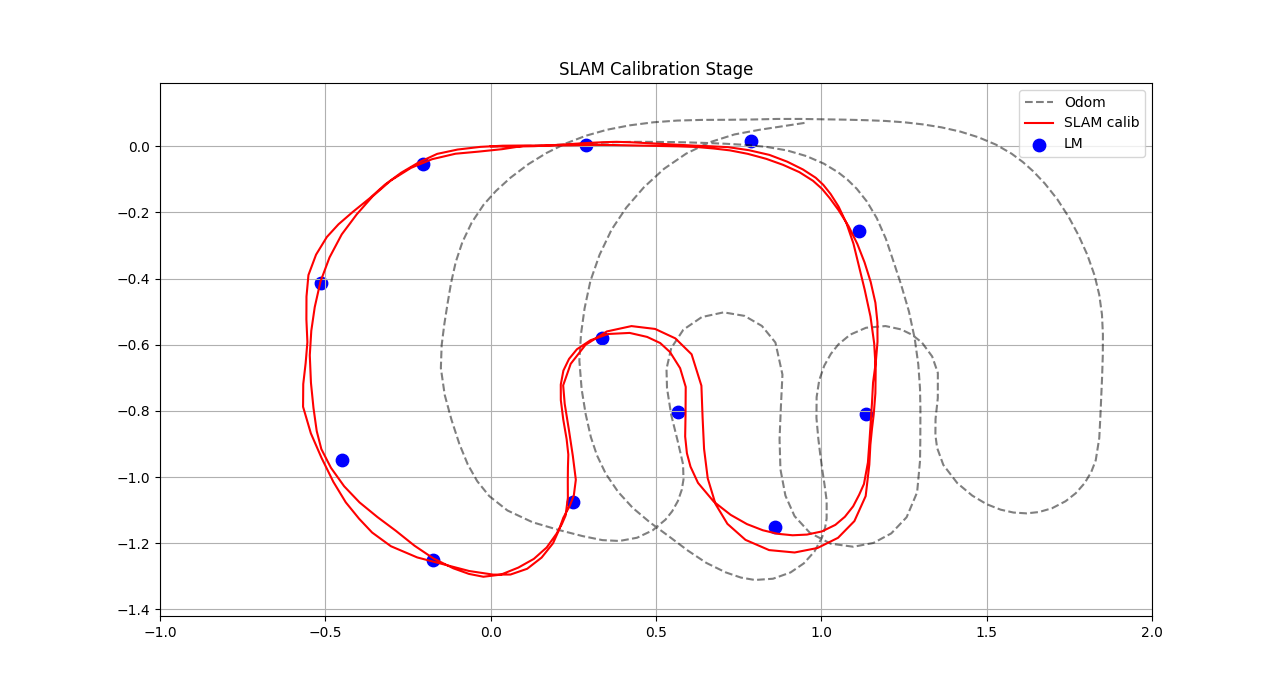
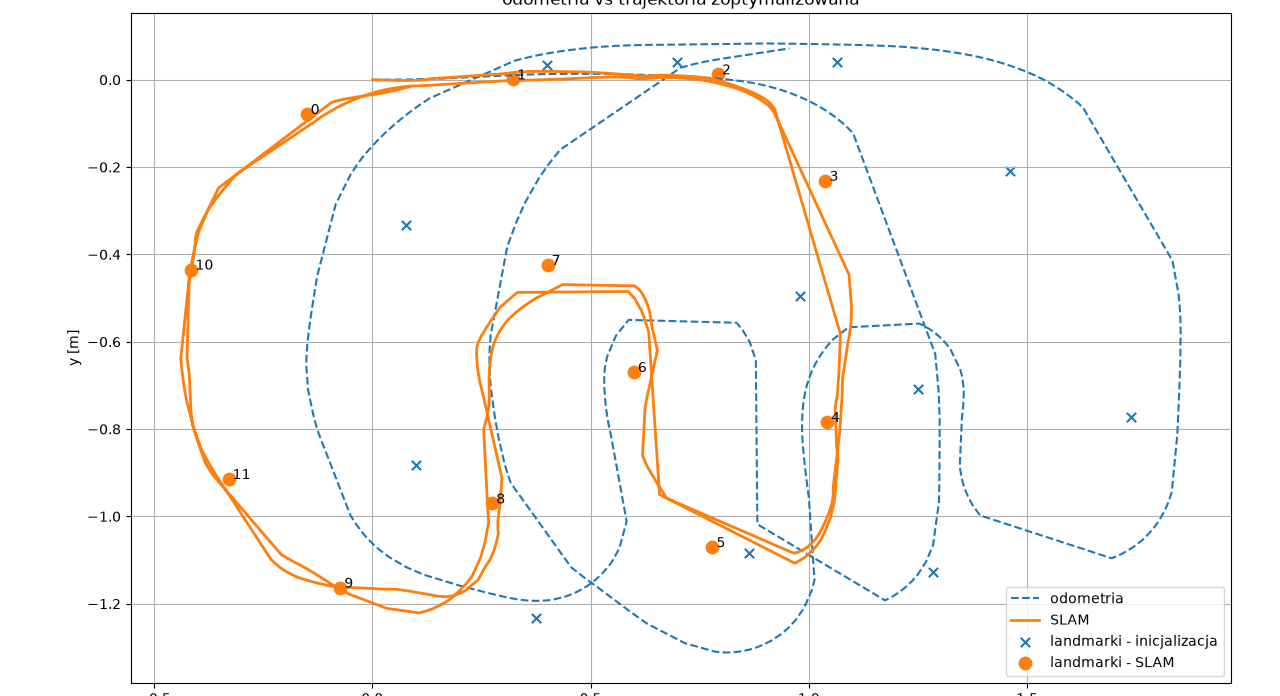
Poprawka 10

diff --git a/_posts/2026-02-22-SLAM offline.md b/_posts/2026-02-22-SLAM offline.md
@@ -180,12 +180,18 @@ Na tym etapie nie zmieniam geometrii BEV ani nie estymuję parametrów modelu ru
 
 *Rys. 3. Przebieg algorytmu SLAM offline: przygotowanie danych, inicjalizacja na podstawie odometrii i map fittingu oraz wspólna optymalizacja trajektorii i mapy landmarków.*
 
-### 6) Etap „runtime” offline: biasy zamrożone, pracuje tylko mapa i trajektoria
-W drugim kroku uruchamiam SLAM jeszcze raz, ale już bez „uczenia się” powyższych korekt. One są zamrożone, a optymalizacja poprawia tylko:
-trajektorię w czasie $\leftrightarrow$ mapę markerów.
-W praktyce wynik nadal wymagał korekty trajektorii względem surowej odometrii (średnio około 0.38 m, maksymalnie około 0.82 m). To jest spójne z intuicją z poprzedniego wpisu: problem najbardziej wychodzi w manewrach wymagających (zakręty), gdzie uproszczony model ruchu zaczyna rozmijać się z fizyką. Moje wyniki ukazują rys. poniżej. Porównanie wyznaczonych pozycji landmarków z ich prawdziwymi (nie znanymi przez algorytm) pozycjami Ground Truth nie wygląda imponująco. W stosunku do GT landmarki mapy wykazują następujące błędy położenia  RMSE [m]: 0.355, Mean [m]: 0.317, Max  [m]: 0.568. 
+### 6) Test 1 – trasa z ostrymi zakrętami
+Pierwszy eksperyment przeprowadziłem na krótkiej trasie z ostrymi zakrętami, znanej już z poprzedniego wpisu o map fittingu. Samochód wykonał dwa przejazdy po tym samym torze, dzięki czemu algorytm mógł wykorzystać ponowne obserwacje nieruchomych markerów.
+Graf SLAM zawierał 366 węzłów trajektorii, 12 landmarków oraz 366 obserwacji markerów. Punktem początkowym była trajektoria odometryczna i mapa landmarków wyznaczona metodą map fittingu.
+Przed optymalizacją RMS obserwacji landmarków wynosił 264,7 mm. Po SLAM zmniejszył się do 6,2 mm, czyli o około 97,7%. Oznacza to, że algorytm uzgodnił obserwacje markerów z wyznaczoną trajektorią i mapą znacznie lepiej niż w rozwiązaniu początkowym.
 
-<img src="{{ 'assets/images/SLAMoffline/SlamRuntime.png' | relative_url }}" alt="SlamRuntime" style="width:100%; max-width:100%; height:auto;" />
+<img src="{{ 'assets/images/SLAMoffline/SlamCalib.png' | relative_url }}" alt="SlamCalib" style="width:100%; max-width:100%; height:auto;" />
+
+*Rys. 4 Trajektoria odometryczna i wyznaczona trajektoria po SLAM wraz z położeniem landmarków*
+
+Zmiana nie była jednak niewielka. Średnia odległość pomiędzy pozycjami odometrycznymi a odpowiadającymi im pozycjami SLAM wyniosła 452,2 mm, a maksymalna 877,2 mm. Nie oznacza to, że odometria miała dokładnie takie błędy. Są to wartości korekt wprowadzonych przez optymalizację, a nie odległości od rzeczywistej trajektorii.
+Jednocześnie RMS residualu odometrycznego pomiędzy kolejnymi węzłami wyniósł 5,6 mm dla translacji oraz 0,19° dla orientacji. SLAM zmienił więc globalny przebieg trajektorii, zachowując stosunkowo niewielkie różnice w ruchu względnym pomiędzy sąsiednimi pozami.
+Wynik pokazuje, że dopuszczenie korekty trajektorii pozwala znacznie zmniejszyć niespójność obserwacji landmarków. Na tym etapie nie wiadomo jednak, czy otrzymana mapa odpowiada rzeczywistemu rozmieszczeniu markerów. Do takiej oceny potrzebne jest porównanie z Ground Truth.
 
 ### 7) Porównanie z Ground Truth: sztywne wyrównanie nie wystarcza, przekształcenie afiniczne ujawnia prawdę
 Ponieważ układ markerów na makiecie mam zmierzony, mogłem porównać mapę uzyskaną ze SLAM z Ground Truth. I tu pojawia się rzecz, która na pierwszy rzut oka wygląda jak porażka, a w praktyce jest świetnym testem diagnostycznym: jakiego typu błędy dominu¬ją w całym pipeline’ie.
